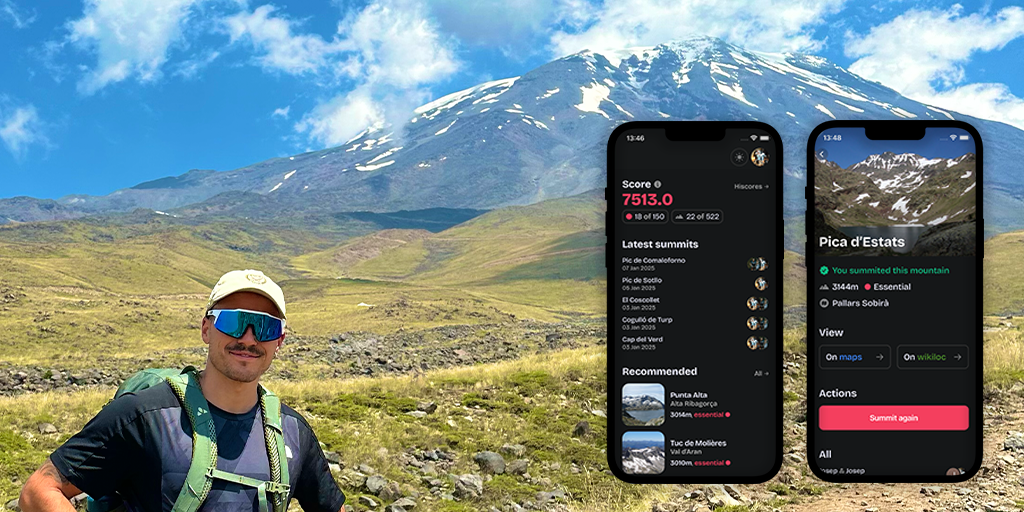
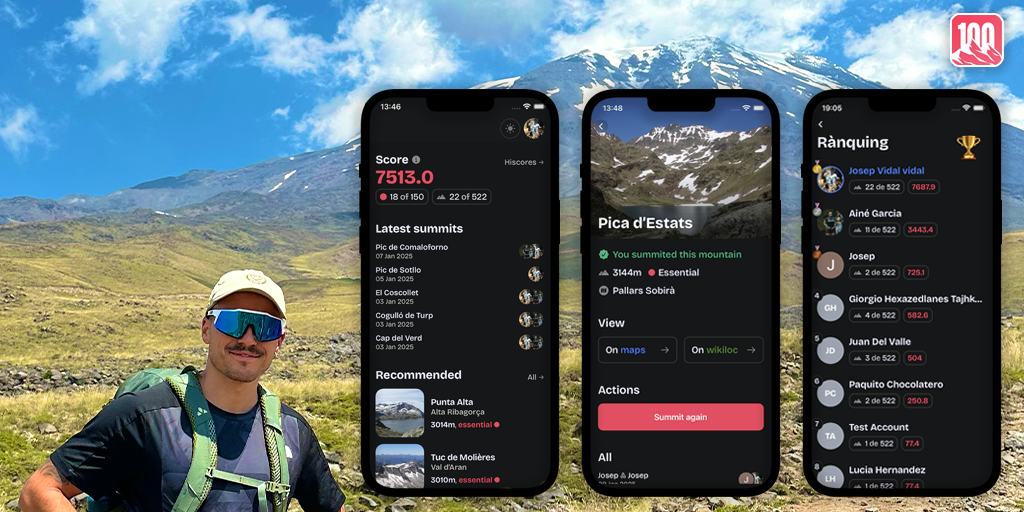
feat: smooth stuff

diff --git a/components/ui/molecules/bottom-drawer.tsx b/components/ui/molecules/bottom-drawer.tsx
@@ -48,7 +48,7 @@ export function BottomDrawer({
   useEffect(() => {
     if (innerOpen) {
       translateY.value = withTiming(0, { duration: 300 });
-      opacity.value = withTiming(1, { duration: 300 });
+      opacity.value = withTiming(1, { duration: 500 });
     } else {
       translateY.value = withTiming(300, { duration: 300 });
       opacity.value = withTiming(0, { duration: 50 });
